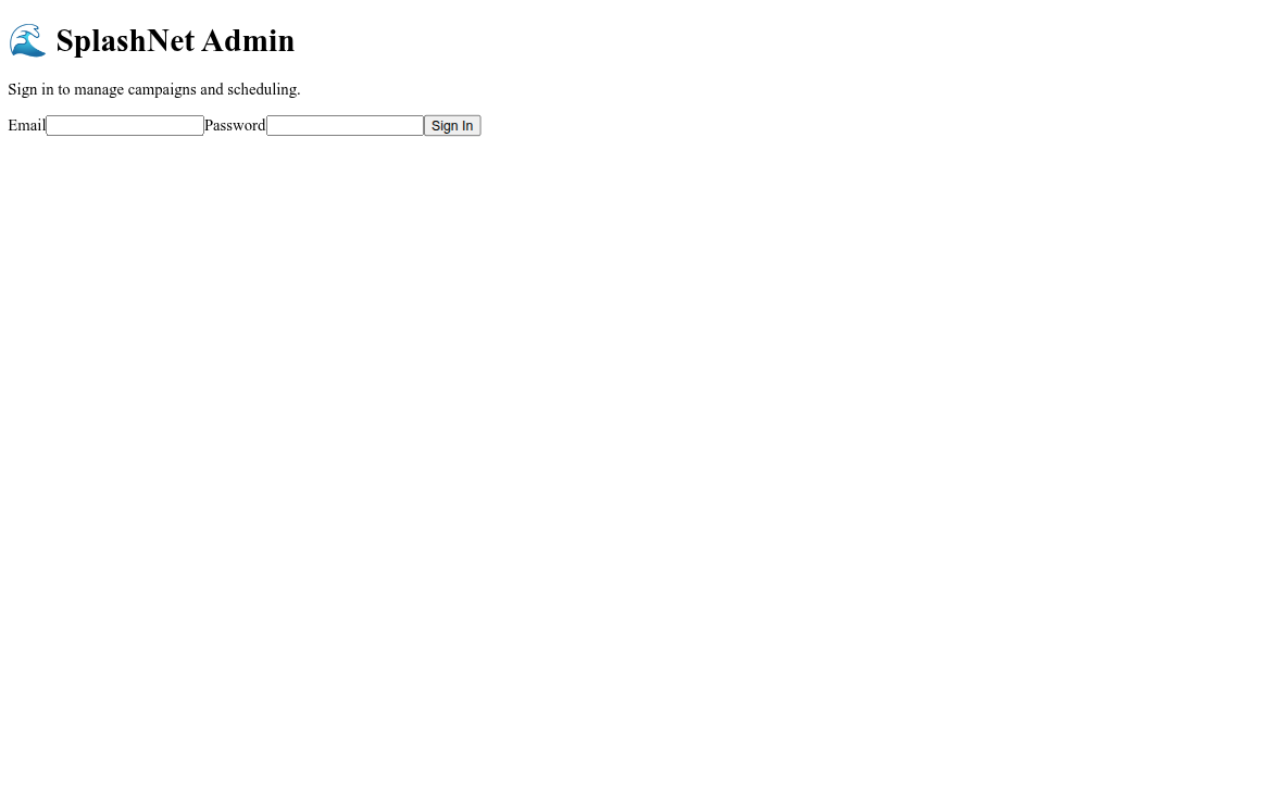
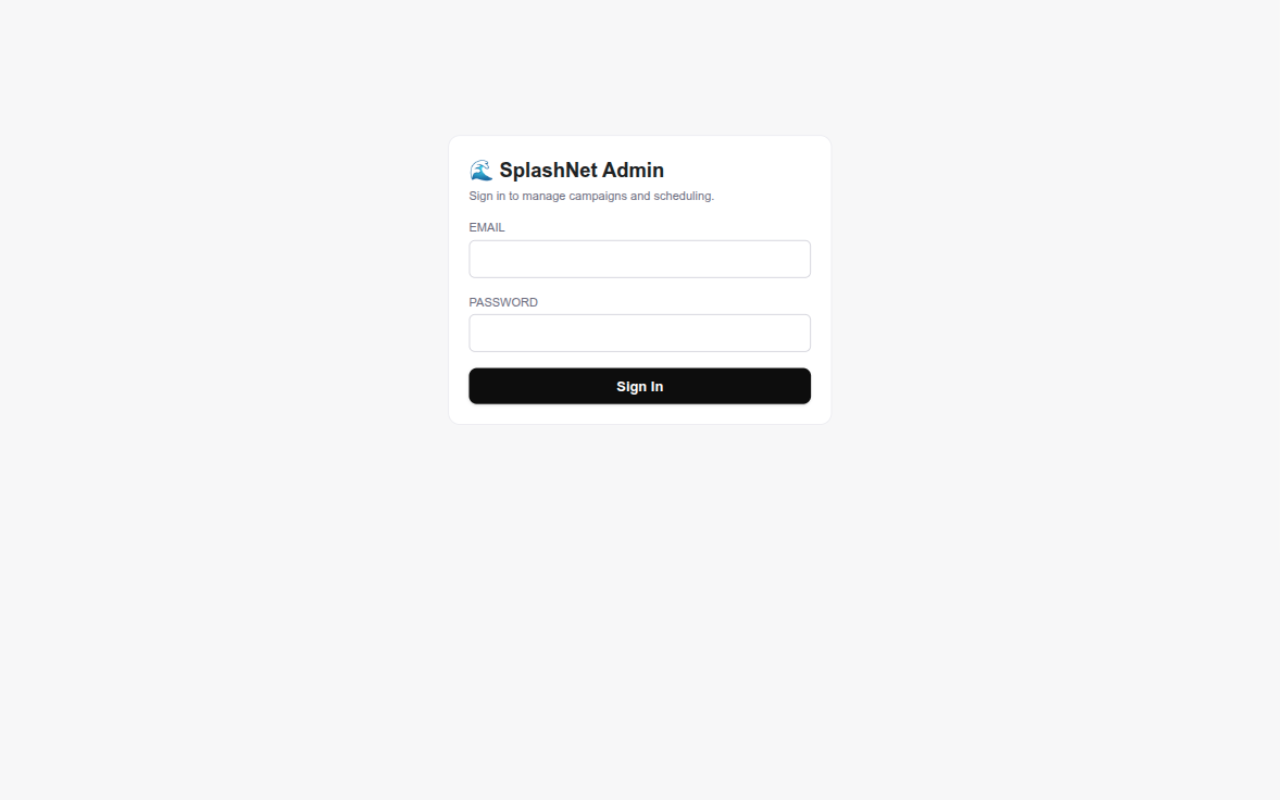
UI re-theme: light, status.openai.com-inspired across all surfaces
- light tokens (#f7f7f8 bg, white cards, #ececf1 hairlines, #0d0d0d primaries)
- soft tinted pills/chips; panel identity kept via subtle accents
- hosted vendor page + vendo overlay + parity stylesheets re-themed
- 16 proof screenshots re-captured; full QA green (12/12, 40/40)

diff --git a/vendo-admin/splashnet.html b/vendo-admin/splashnet.html
@@ -5,27 +5,27 @@
   <meta name="viewport" content="width=device-width, initial-scale=1">
   <title>SplashNet — Vendo Status &amp; Income</title>
   <style>
-    body { font-family: system-ui, sans-serif; background: #0f172a; color: #e2e8f0; margin: 0; padding: 16px; }
-    .card { background: #1e293b; border-radius: 12px; padding: 16px; margin-bottom: 14px; }
-    h1 { font-size: 18px; margin: 0 0 2px; } .sub { color: #94a3b8; font-size: 12px; margin-bottom: 12px; }
+    body { font-family: system-ui, sans-serif; background: #f7f7f8; color: #202123; margin: 0; padding: 16px; }
+    .card { background: #ffffff; border: 1px solid #ececf1; border-radius: 16px; padding: 16px; margin-bottom: 14px; box-shadow: 0 1px 2px rgba(0,0,0,.04); }
+    h1 { font-size: 18px; margin: 0 0 2px; } .sub { color: #6e6e80; font-size: 12px; margin-bottom: 12px; }
     .grid { display: grid; grid-template-columns: repeat(auto-fit, minmax(120px, 1fr)); gap: 10px; }
-    .stat { background: #0f172a; border-radius: 10px; padding: 12px; text-align: center; }
-    .stat b { display: block; font-size: 22px; color: #22d3ee; margin-bottom: 2px; }
-    .stat span { font-size: 11px; color: #94a3b8; text-transform: uppercase; }
+    .stat { background: #f7f7f8; border: 1px solid #ececf1; border-radius: 12px; padding: 12px; text-align: center; }
+    .stat b { display: block; font-size: 22px; color: #0d0d0d; margin-bottom: 2px; }
+    .stat span { font-size: 11px; color: #6e6e80; text-transform: uppercase; }
     .row { display: flex; gap: 8px; margin-top: 8px; flex-wrap: wrap; }
-    input { flex: 1; min-width: 180px; background: #0f172a; color: #e2e8f0; border: 1px solid #334155; border-radius: 8px; padding: 9px 12px; font-size: 13px; }
-    button { background: #0891b2; color: #fff; border: none; border-radius: 8px; padding: 9px 16px; font-size: 13px; font-weight: 600; cursor: pointer; }
+    input { flex: 1; min-width: 180px; background: #fff; color: #202123; border: 1px solid #d4d4dc; border-radius: 10px; padding: 9px 12px; font-size: 13px; }
+    button { background: #0d0d0d; color: #fff; border: none; border-radius: 10px; padding: 9px 16px; font-size: 13px; font-weight: 600; cursor: pointer; }
     .site { display: inline-block; background: #0f172a; border-radius: 999px; padding: 4px 12px; font-size: 12px; margin: 3px 4px 0 0; }
-    .ok { color: #4ade80; } .bad { color: #f87171; }
-    #msg { font-size: 12px; margin: 8px 0 0; color: #94a3b8; min-height: 16px; }
+    .ok { color: #059669; } .bad { color: #dc2626; }
+    #msg { font-size: 12px; margin: 8px 0 0; color: #6e6e80; min-height: 16px; }
     table { width: 100%; font-size: 12px; border-collapse: collapse; }
-    td, th { padding: 6px 4px; text-align: left; border-bottom: 1px solid #334155; }
+    td, th { padding: 6px 4px; text-align: left; border-bottom: 1px solid #ececf1; }
   </style>
 </head>
 <body>
   <div class="card">
     <h1>🌊 SplashNet — Vendo Status &amp; Income</h1>
-    <div class="sub">Advertiser-funded free minutes earned by your gateways. Retarget your portals from the SplashNet admin — nothing to re-flash here.</div>
+    <div class="sub">Advertiser-funded free minutes earned by your gateways. This page is hosted by SplashNet — your vendo hardware is never touched. Bookmark it, or "Add to Home Screen" for a phone app.</div>
     <div class="row">
       <input id="key" type="password" placeholder="Vendor API key (vnk_…)">
       <button onclick="load()">Refresh</button>

diff --git a/docs/PROOF-OF-DELIVERABLES.md b/docs/PROOF-OF-DELIVERABLES.md
@@ -1,5 +1,9 @@
 # SplashNet — Proof of Deliverables
 
+> UI theme: light, status.openai.com-inspired (white cards, hairline
+> #ececf1 borders, near-black primaries, soft tinted status pills).
+> Screenshots in this pack reflect that theme; captured 2026-09-03.
+
 Reference: SplashNet BRD v4.2 (Phase 1 Base Build, ₱130,000 scope) plus the
 extensions commissioned during development. Every claim below is either
 machine-verified (QA evidence) or visually proven (screenshot evidence in
